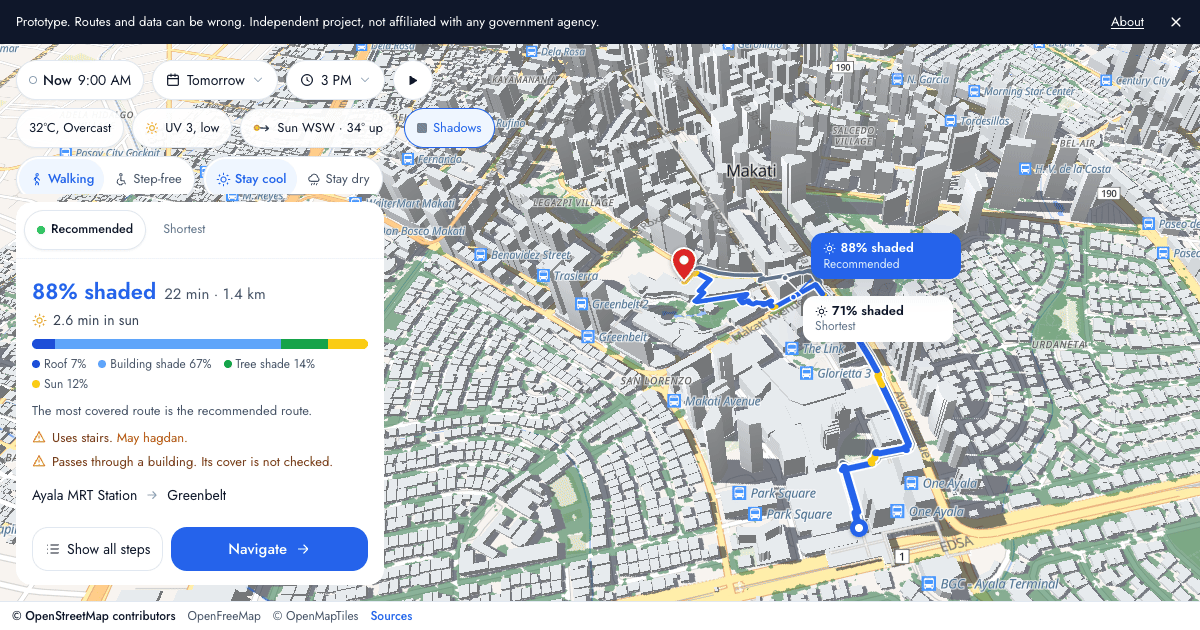
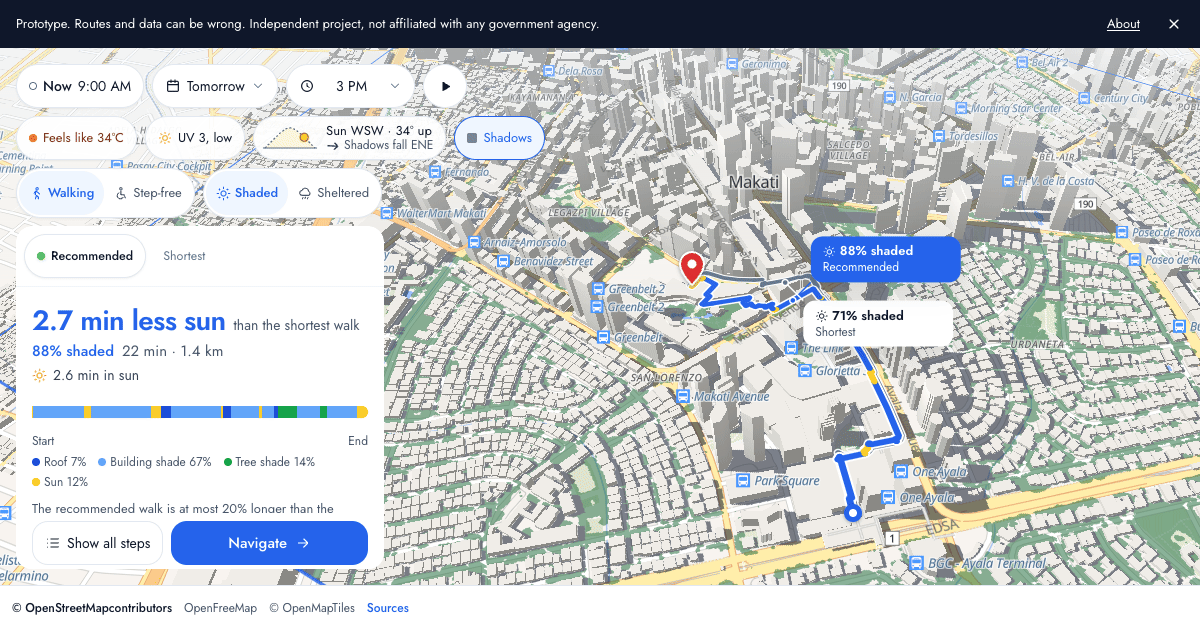
Re-record the GIFs on the final UI, with the phone summary card, and match the captions to the frames

diff --git a/README.md b/README.md
@@ -9,7 +9,7 @@
 
 [![A walk from Ayala MRT Station to Greenbelt on undercover.ph: the landing card, the Shaded choice, the destination and start search, tomorrow at 3 PM, three routes on the 3D map with their shaded share, and the route card with minutes in sun and the roof, building, and tree split](docs/demo/hero.gif)](https://undercover.ph)
 
-<sub>Real recording of the app (via `app/scripts/demo-record.mjs`). Ayala MRT Station to Greenbelt, leaving at 3 PM: the recommended walk is 1,406 m, 87% covered, with 2.6 minutes in sun. The shortest walk is 1,230 m, 71% covered, with 5.3 minutes in sun.</sub>
+<sub>Real recording of the app (via `app/scripts/demo-record.mjs`). Ayala MRT Station to Greenbelt, leaving at 3 PM: the recommended walk is 1,406 m, 88% shaded, with 2.6 minutes in sun. The shortest walk is 1,230 m, 71% shaded, with 5.3 minutes in sun.</sub>
 
 Try it at **[undercover.ph](https://undercover.ph)**: pick Shaded or Sheltered, choose where you start and where you go, and pick the half hour you leave.
 
@@ -39,7 +39,7 @@ Like Singapore's version, the app returns three walks: the shortest, the most co
 
 <table>
 <tr>
-<td width="40%"><a href="https://undercover.ph"><img src="docs/demo/steps-phone.gif" alt="undercover.ph on a phone: the route card, the step list with sidewalk-side badges, landmarks, and stairs flags, then the Navigate view with a turn card"></a></td>
+<td width="40%"><a href="https://undercover.ph"><img src="docs/demo/steps-phone.gif" alt="undercover.ph on a phone: the short route card under a large map, the step list with sidewalk-side badges, landmarks, and stairs flags, then the Navigate view with a turn card"></a></td>
 <td width="60%"><a href="https://undercover.ph"><img src="docs/demo/rain.gif" alt="undercover.ph in rain mode: the walk changes to use covered walkways and an underpass, and the card switches to the sheltered share"></a></td>
 </tr>
 <tr>

diff --git a/docs/demo/ALT.md b/docs/demo/ALT.md
@@ -12,8 +12,8 @@ Real recording of the same walk with ground shadows on, where the play button st
 
 ## steps-phone.gif
 
-Real recording on a phone screen: the route card at 88% shaded and 22 min, then Show all steps with 12 steps that name the sidewalk side (northeast, southeast, southwest), landmarks such as One Ayala, Glorietta 5 and Rustan's, and flags for a crossing, an underpass with stairs and a passage through a building, then Navigate with the first turn, head north on the northeast side of Courtyard Drive past One Ayala, step 1 of 12.
+Real recording on a phone screen: the short route card at the bottom with 88% shaded, 22 min, 2.7 min less sun than the shortest walk and 2 warnings (stairs, through a building), with most of the screen left to the map. Then Steps with 12 steps that name the sidewalk side and the walker's own side, for example "Head north on the northeast side (on your right) of Courtyard Drive", with landmarks such as Rustan's and Greenbelt 5 and flags for a crossing, an underpass with stairs and a passage through a building. Then Navigate with that first turn, step 1 of 12, and an End button.
 
 ## rain.gif
 
-Real recording of the 3 PM walk from Ayala MRT Station to Greenbelt switching from Stay cool, 88% shaded, to Stay dry, where the router picks a different route that is 25% sheltered, 19 min and 1.2 km, with 14 min without a roof, roof 26% and no roof 74%, against 6% sheltered for the shortest route.
+Real recording of the 3 PM walk from Ayala MRT Station to Greenbelt switching from Shaded, 88% shaded, to Sheltered, where the router picks a different route that is 25% sheltered, 19 min and 1.2 km, with 14 min without a roof, roof 26% and no roof 74%, against 6% sheltered for the shortest route.
